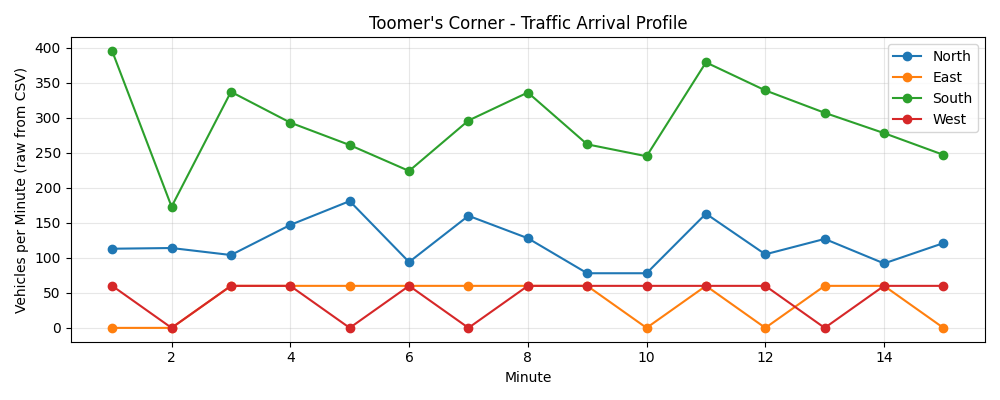
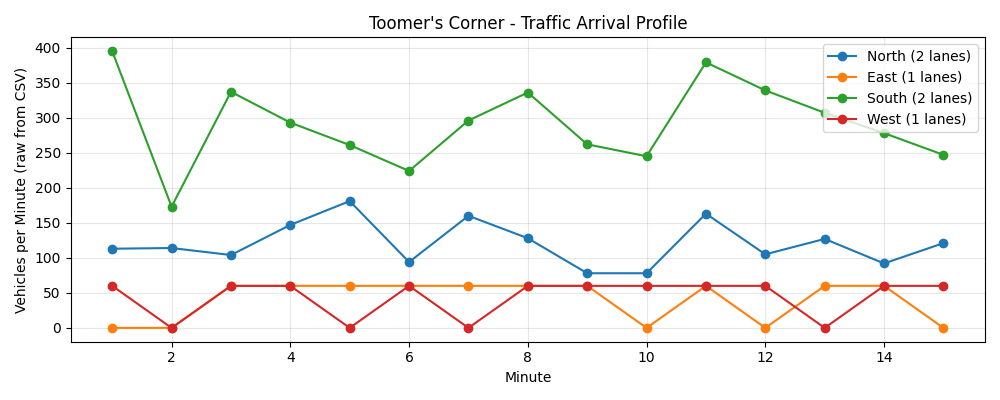
Configure per-approach lane counts for Toomer's (N-S: 2, E-W: 1)
Matches the actual Toomer's Corner layout where N-S is the arterial
with 2 lanes per approach and E-W is a lighter cross street with 1
lane per approach. Updates arrival profile plot and summary to show
per-approach lane configuration.

Changed region(s): [[0.806, 0.18, 0.992, 0.33], [0.837, 0.12, 0.992, 0.15]]

diff --git a/traffic_rl_project/evaluate_toomers.py b/traffic_rl_project/evaluate_toomers.py
@@ -41,7 +41,10 @@ CSV_PATH = os.path.join(HERE, "data", "toomers_traffic.csv")
 OUT_DIR = os.path.join(HERE, "results", "toomers")
 os.makedirs(OUT_DIR, exist_ok=True)
 
-LANES_PER_APPROACH = 3         # assumed multi-lane aggregation in counts
+# Toomer's Corner lane configuration: N-S is the heavy arterial (2 lanes per
+# approach), E-W is a lighter cross street (1 lane per approach).
+# Order: [North, East, South, West]
+LANES_PER_APPROACH = [2, 1, 2, 1]
 SECONDS_PER_MINUTE = 60
 RANDOM_SEED = 42
 
@@ -56,13 +59,12 @@ def load_toomers_data(csv_path):
     with open(csv_path) as f:
         reader = csv.DictReader(f)
         for row in reader:
-            # CSV is vehicles/min aggregated across all lanes -> per-lane per-second
-            rates = [
-                int(row["north"]) / SECONDS_PER_MINUTE / LANES_PER_APPROACH,
-                int(row["east"])  / SECONDS_PER_MINUTE / LANES_PER_APPROACH,
-                int(row["south"]) / SECONDS_PER_MINUTE / LANES_PER_APPROACH,
-                int(row["west"])  / SECONDS_PER_MINUTE / LANES_PER_APPROACH,
-            ]
+            # CSV is vehicles/min aggregated across all lanes of that approach.
+            # Divide by per-approach lane count to get per-lane per-second rate.
+            counts = [int(row["north"]), int(row["east"]),
+                      int(row["south"]), int(row["west"])]
+            rates = [c / SECONDS_PER_MINUTE / lanes
+                     for c, lanes in zip(counts, LANES_PER_APPROACH)]
             rows.append((int(row["minute"]), rates))
     return rows
 
@@ -131,10 +133,12 @@ def plot_all(results, data, out_dir):
     # Plot 1: Arrival rate profile from CSV
     fig, ax = plt.subplots(figsize=(10, 4))
     minutes = [m for m, _ in data]
-    arrays = np.array([r for _, r in data])  # shape (15, 4)
+    arrays = np.array([r for _, r in data])  # shape (15, 4) in veh/sec/lane
     labels = ["North", "East", "South", "West"]
     for i, label in enumerate(labels):
-        ax.plot(minutes, arrays[:, i] * LANES_PER_APPROACH * 60, marker="o", label=label)
+        # Convert back to raw veh/min per approach for the plot
+        raw = arrays[:, i] * LANES_PER_APPROACH[i] * 60
+        ax.plot(minutes, raw, marker="o", label=f"{label} ({LANES_PER_APPROACH[i]} lanes)")
     ax.set_xlabel("Minute")
     ax.set_ylabel("Vehicles per Minute (raw from CSV)")
     ax.set_title("Toomer's Corner - Traffic Arrival Profile")
@@ -237,10 +241,15 @@ def main():
     print("=" * 70)
 
     data = load_toomers_data(CSV_PATH)
-    total_arrivals = sum(sum(r) for _, r in data) * SECONDS_PER_MINUTE * LANES_PER_APPROACH
+    # Total raw vehicle count across all approaches
+    total_arrivals = sum(
+        sum(rate * lanes * SECONDS_PER_MINUTE
+            for rate, lanes in zip(rates, LANES_PER_APPROACH))
+        for _, rates in data
+    )
     print(f"\nData loaded: {len(data)} minutes")
-    print(f"Total expected arrivals: {int(total_arrivals):,} vehicles")
-    print(f"Per-lane scaling factor: divided by {LANES_PER_APPROACH} lanes/approach")
+    print(f"Total arrivals (raw, across all lanes): {int(total_arrivals):,} vehicles")
+    print(f"Lane configuration [N, E, S, W]: {LANES_PER_APPROACH}")
     print(f"Max per-lane rate: {max(max(r) for _, r in data):.2f} veh/sec")
     print()
 
@@ -272,7 +281,7 @@ def main():
         f.write("=" * 70 + "\n")
         f.write(f"Data: {CSV_PATH}\n")
         f.write(f"Duration: {len(data)} minutes ({len(data) * 60} seconds)\n")
-        f.write(f"Lane scaling: divided by {LANES_PER_APPROACH} lanes per approach\n\n")
+        f.write(f"Lane configuration [N, E, S, W]: {LANES_PER_APPROACH}\n\n")
         f.write(f"{'Controller':<16} {'Passed':>8} {'Arrived':>9} "
                 f"{'Avg Wait (s)':>13} {'Throughput':>11} {'Final Q':>8}\n")
         f.write("-" * 70 + "\n")
